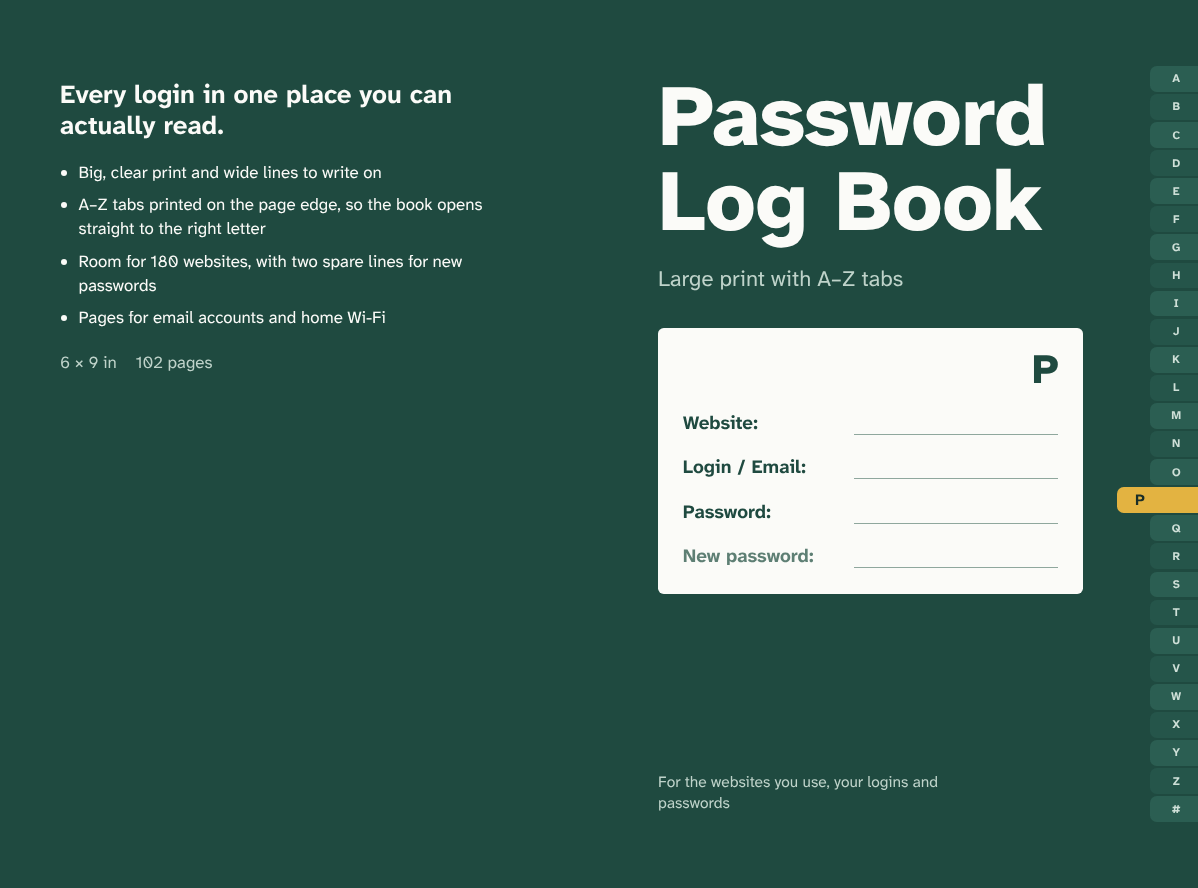
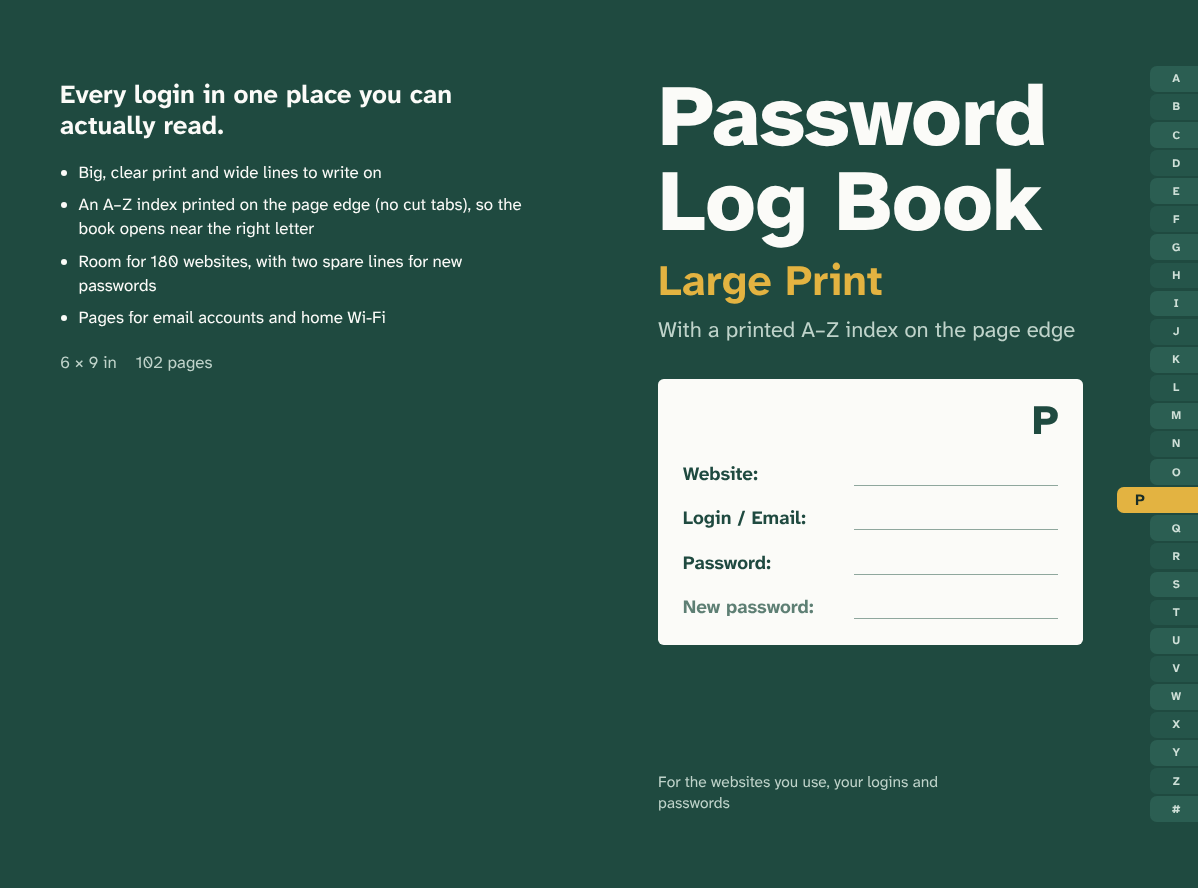
Okładki: wyeksponowane 'Large Print', uczciwy opis indeksu A–Z (nadruk, bez przekładek)
Claude-Session: https://claude.ai/code/session_01UJfvBnMCoAnWauXc8Hp5JK

diff --git a/books/password-log-book/cover/make_cover.py b/books/password-log-book/cover/make_cover.py
@@ -78,7 +78,7 @@ def html(trim: str, pages: int) -> tuple[str, float, float]:
         <p class="lead">Every login in one place you can actually read.</p>
         <ul>
           <li>Big, clear print and wide lines to write on</li>
-          <li>A&#8211;Z tabs printed on the page edge, so the book opens straight to the right letter</li>
+          <li>An A&#8211;Z index printed on the page edge (no cut tabs), so the book opens near the right letter</li>
           <li>Room for {f['accounts']} websites, with two spare lines for new passwords</li>
           <li>Pages for email accounts and home <span style="white-space:nowrap">Wi-Fi</span></li>
         </ul>
@@ -88,7 +88,8 @@ def html(trim: str, pages: int) -> tuple[str, float, float]:
       <div class="front" style="left:{front_x + safe:.3f}in;top:{BLEED + safe + 0.15:.3f}in;
            width:{text_right - front_x - safe:.3f}in;height:{f['h'] - 2 * safe - 0.3:.3f}in">
         <h1>Password<br>Log Book</h1>
-        <p class="sub">Large print with A&#8211;Z tabs</p>
+        <p class="lp">Large Print</p>
+        <p class="sub">With a printed A&#8211;Z index on the page edge</p>
         <div class="card">
           <div class="card-letter">P</div>
           <div class="row"><b>Website:</b><i></i></div>
@@ -110,7 +111,9 @@ html, body {{ margin: 0; padding: 0; }}
         border-radius: 0.07in 0 0 0.07in; box-sizing: border-box; }}
 .front {{ position: absolute; display: flex; flex-direction: column; }}
 h1 {{ margin: 0; font-weight: 800; font-size: {f['title']:.3f}in; line-height: 0.98; letter-spacing: -0.01em; }}
-.sub {{ margin: {f['sub'] * 0.9:.3f}in 0 0; font-size: {f['sub']:.3f}in; font-weight: 400; color: {C['muted']}; }}
+.lp {{ margin: {f['sub'] * 0.7:.3f}in 0 0; font-size: {f['title'] * 0.5:.3f}in; font-weight: 700;
+       line-height: 1; color: {C['brass']}; }}
+.sub {{ margin: {f['sub'] * 0.55:.3f}in 0 0; font-size: {f['sub']:.3f}in; font-weight: 400; color: {C['muted']}; }}
 .foot {{ margin-top: auto; margin-bottom: 0; font-size: {body * 1.2:.3f}in; line-height: 1.35;
          max-width: 80%; color: {C['muted']}; }}
 .card {{ margin-top: {f['sub'] * 1.6:.3f}in; background: {C['text']}; color: {C['ground']};

diff --git a/books/password-log-book/README.md b/books/password-log-book/README.md
@@ -57,12 +57,15 @@ grzbietu, zmień stałą `PAPER` albo `--pages` i wygeneruj ponownie.
 
 Projekt: zieleń jak płótno notesu adresowego, krój Atkinson Hyperlegible Next (tworzony z myślą
 o osobach słabowidzących, licencja OFL), kolumna zakładek A–Z jak we wnętrzu z wysuniętą mosiężną
-zakładką „P”, a na przodzie podgląd prawdziwego wpisu z dużą czcionką.
+zakładką „P”, wyeksponowane „Large Print”, uczciwy podtytuł o nadrukowanym indeksie, a na przodzie podgląd prawdziwego wpisu z dużą czcionką.
 
 ## Propozycja opisu (do dopracowania)
 
 **Title:** Password Log Book Large Print
-**Subtitle:** Easy-to-Read Internet Address and Password Organizer for Seniors with Alphabetical Tabs
+**Subtitle:** Easy-to-Read Internet Address and Password Organizer for Seniors with a Printed A–Z Index
+
+W opisie produktu napisz wprost, że indeks A–Z jest **nadrukowany na brzegu stron (bez wycinanych przekładek)** –
+kupujący znają notesy z prawdziwymi przekładkami (Clever Fox, JUBTIC) i inaczej mogą się rozczarować.
 
 **7 pól słów kluczowych (backend)** – bez słów, które już są w tytule i podtytule
 (Amazon i tak je indeksuje):
